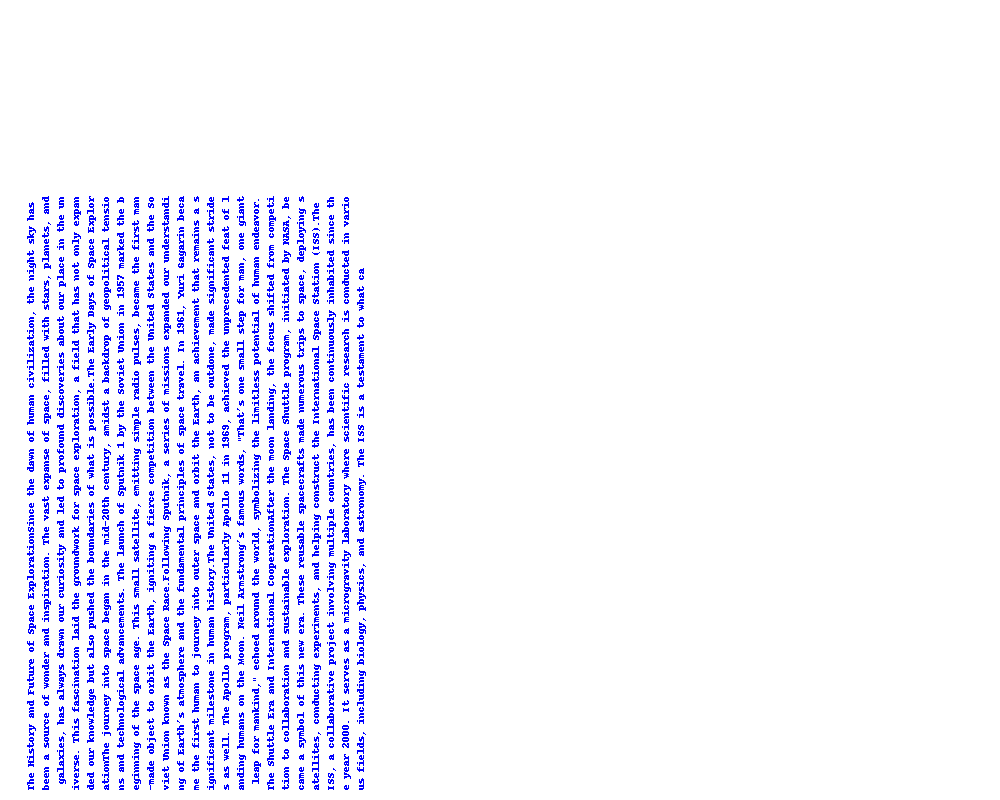
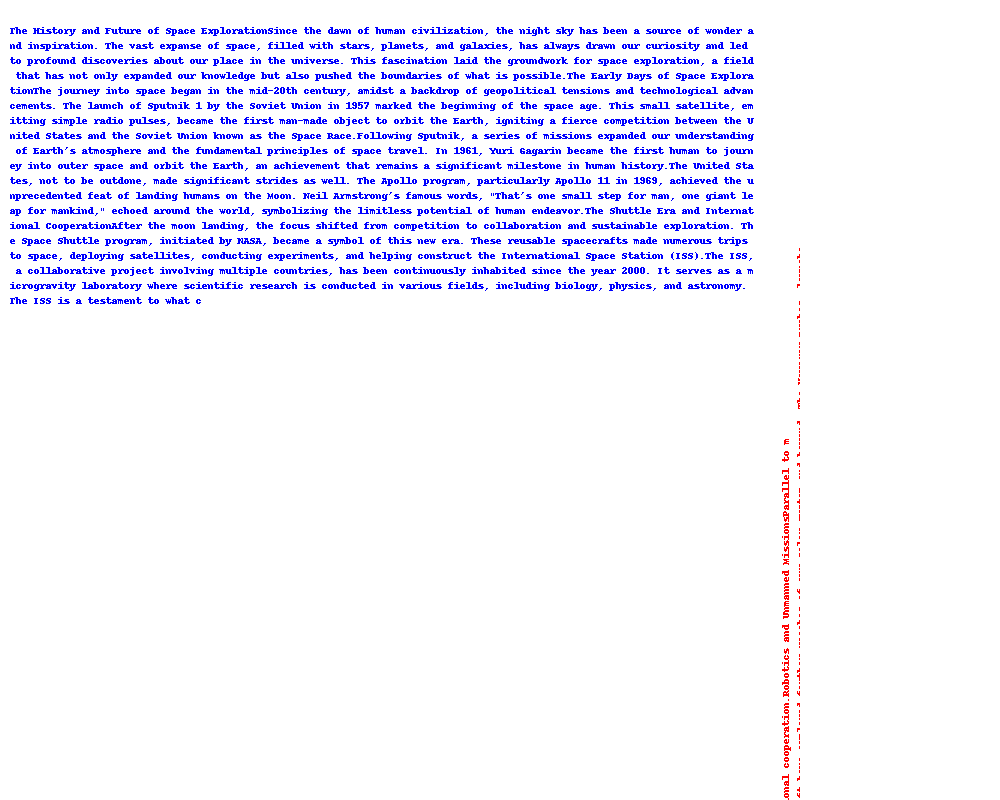
trying different method for printing image

Changed region(s): [[0.0, 0.0312, 0.744, 1.0], [0.775, 0.5625, 0.806, 0.9375], [0.775, 0.9688, 0.806, 1.0]]

diff --git a/Crossed_Letter_Main.py b/Crossed_Letter_Main.py
@@ -66,8 +66,8 @@ def text_clean(text):
     cleaned_text = cleaned_text.replace('\t', '')
     
     # Shape test to fit for the desired image
-    for i in range(0, len(cleaned_text), 100):
-        if i % 100 == 0:
+    for i in range(0, len(cleaned_text), 125):
+        if i % 125 == 0:
             cleaned_text = cleaned_text[:i] + '\n' + cleaned_text[i:]
     
     # Divide the cleaned_text into two halves
@@ -78,7 +78,11 @@ def text_clean(text):
     return cleaned_text_1, cleaned_text_2
 
 
-# Function to generate crossed letter image/document
+'''
+The generate_crossed_letter function is designed to create an image that 
+displays two layers of text in different colors (blue and red) overlaid 
+in a "crossed letter" style
+'''
 def generate_crossed_letter(text1, text2):
     # Create a blank image canvas
     img = Image.new('RGB', (800, 1000), color = (255, 255, 255))
@@ -90,15 +94,17 @@ def generate_crossed_letter(text1, text2):
     # Add first layer of text in blue
     draw.text((10, 10), text1, fill=(0, 0, 255), font=font)
 
-    # Rotate the image and add second layer of text in red
+    #rotate the image
     img = img.rotate(90, expand=1)
-    draw = ImageDraw.Draw(img)
-    draw.text((10, -790), text2, fill=(255, 0, 0), font=font)
 
-    # Additional code to handle overlapping text and create purple color
+    # Add second layer of text in red
+    draw_red.text((10, 10), text2, fill=(255, 0, 0), font=font)
+    # Rotate the red text image
+    img_red = img_red.rotate(-90, expand=1)
 
     # Save the image
     img.save('crossed_letter.png')
+
 
 # Main function to handle the workflow
 def main():
@@ -126,6 +132,7 @@ def main():
     print(text_2)
     # Generate crossed letter
     generate_crossed_letter(text_1, text_2)
+    print("Crossed Letter Generated!")
 
 if __name__ == "__main__":
     main()
